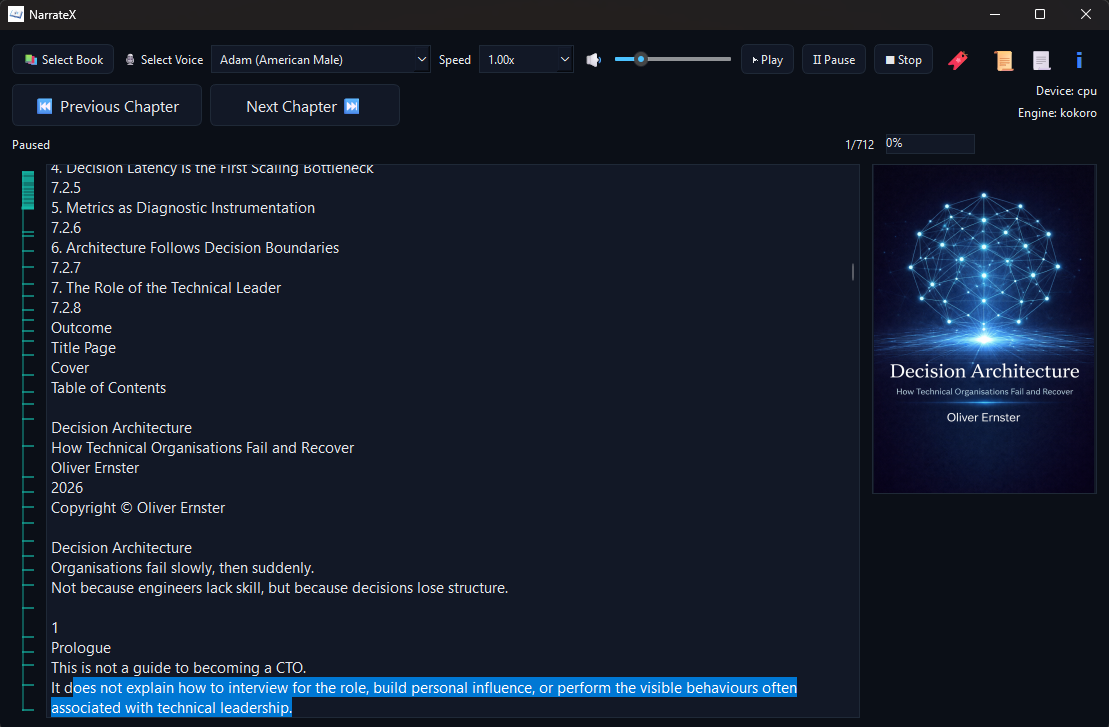
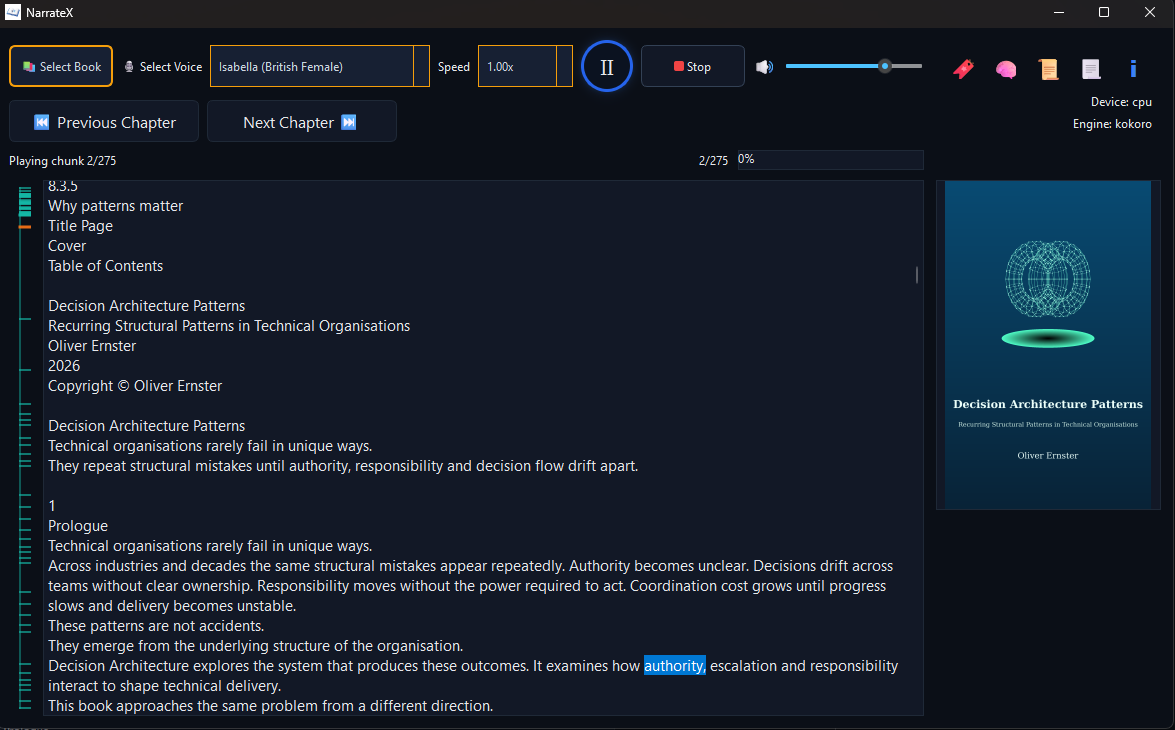
Update NarrateX post with v2 content.

diff --git a/posts/narratex.md b/posts/narratex.md
@@ -1,6 +1,6 @@
 ---
 blurb: Local narration for ebooks and documents
-date: 2026-03-15 01:30
+date: 2026-03-17 17:30
 type: project
 role: flagship
 image: /static/images/narratex.png
@@ -20,9 +20,45 @@ title: NarrateX
 
 [NarrateX](https://github.com/oernster/NarrateX/releases) is a local desktop narration engine for turning books and documents into spoken audio.
 
-- Now with custom Windows installer.
-- Playback speed control, bookmarking and chapter navigation.
-- Persistent volume control with real time adjustment.
+---
+
+## Version 2.0.0
+
+This release introduces a structural overhaul of the system along with a set of focused usability improvements.
+
+### Architecture
+
+The codebase has been refactored to remove accumulated technical debt and enforce a clearer separation of concerns across the system.
+
+Unit tests now go beyond coverage. They actively constrain future changes by encoding structural expectations into the test suite. The goal is simple. The system should resist accidental degradation over time.
+
+*The architecture is now part of the product, not just its implementation.*
+
+### UI and Interaction
+
+The interface has been refined to improve clarity and consistency without adding noise.
+
+Controls are grouped more deliberately. Button sizes are consistent across the interface. Disabled states in dark mode are clearly visible with defined borders.
+
+Playback controls have been made more explicit.  
+The play and pause control is now a single larger toggle.  
+The stop control is visually distinct.
+
+Navigation feedback has been improved.  
+The vertical navigation indicator now reflects live progress through the text.  
+Highlighted text is synchronised with audio during playback.
+
+*Subtle visual adjustments have been applied across the interface to improve overall cohesion and reduce friction during long sessions.*
+
+### Navigation and State
+
+Chapter and section detection has been extended to support automatic bookmark generation.
+
+Bookmarks now follow a consistent visual format and are easier to scan during navigation.
+
+*The system continues to maintain a clear separation between navigation state and playback state to preserve deterministic behaviour.*
+
+---
 
 <div style="text-align:center; font-size:1.2em; margin: 1em 0;">
 Turn any ebook into natural narration directly on your own machine.
@@ -72,6 +108,8 @@ Narration begins almost immediately because synthesis and playback run together 
     <li>Bookmarking with automatic resume</li>
     <li>Chapter navigation with visual tree indicator</li>
     <li>Automatic text chunking for stable narration</li>
+    <li>Automatic section and chapter bookmark generation</li>
+    <li>Audio synchronised text highlighting</li>
     <li>Support for EPUB PDF and plain text</li>
     <li>Optional Kindle format support via Calibre conversion</li>
   </ul>
@@ -148,6 +186,8 @@ Users can create multiple numbered bookmarks during narration.
 
 A separate hidden resume position is automatically stored when playback stops pauses or the application exits.
 
+Bookmarks include both manual pins and automatically generated section markers to support different navigation styles.
+
 *When playback resumes the system automatically continues from the last listening position.*
 
 ### Chapter Navigation
@@ -196,11 +236,15 @@ Your books remain yours.
 
 ## Development Notes
 
-Recent releases introduced several major usability improvements including playback speed control bookmarking chapter navigation and persistent volume management.
+Version 2.0.0 represents a shift from feature accumulation to structural integrity.
 
-These features were implemented while maintaining strict separation between synthesis playback and navigation logic so the system remains deterministic and easy to evolve.
+The system has been refactored to reduce internal complexity while strengthening guarantees around behaviour and evolution.
 
-The goal is not to produce a feature heavy media player but a focused narration tool that makes personal libraries easier to experience.
+Testing now acts as a structural constraint rather than a safety net. The system is designed to resist regression by construction.
+
+UI improvements were applied carefully to improve clarity without introducing visual noise. Most changes are subtle yet compound over time during long listening sessions.
+
+The goal remains consistent. A focused narration tool that treats structure as a first class concern.
 
 ---
 
